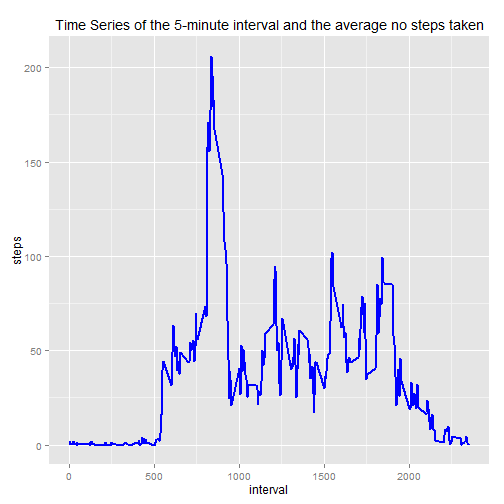
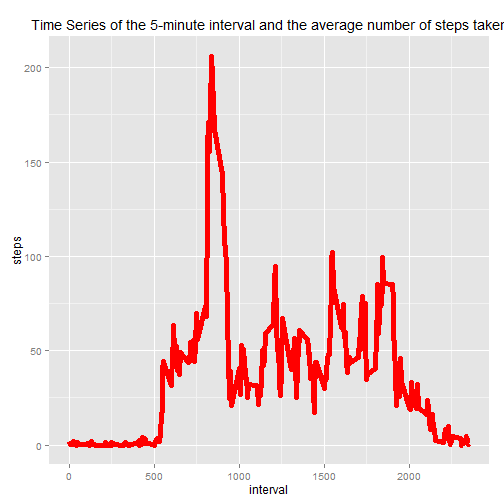
Assessment 1.

Changed region(s): [[0.119, 0.0893, 0.9524, 0.8929], [0.0595, 0.0298, 1.0, 0.0595]]

diff --git a/PA1_template.html b/PA1_template.html
@@ -217,7 +217,7 @@ df &lt;- read.csv(&quot;activity.csv&quot;)
 
 <h2>1.1 Process input data</h2>
 
-<p>Process date column and print the first few records and a summary of the data set.</p>
+<p>Process date column and print the first few records.</p>
 
 <pre><code class="r">df$date &lt;- as.Date(df$date, &quot;%Y-%m-%d&quot;)
 head(df)
@@ -232,19 +232,6 @@ head(df)
 ## 6    NA 2012-10-01       25
 </code></pre>
 
-<pre><code class="r">summary(df)
-</code></pre>
-
-<pre><code>##      steps             date               interval     
-##  Min.   :  0.00   Min.   :2012-10-01   Min.   :   0.0  
-##  1st Qu.:  0.00   1st Qu.:2012-10-16   1st Qu.: 588.8  
-##  Median :  0.00   Median :2012-10-31   Median :1177.5  
-##  Mean   : 37.38   Mean   :2012-10-31   Mean   :1177.5  
-##  3rd Qu.: 12.00   3rd Qu.:2012-11-15   3rd Qu.:1766.2  
-##  Max.   :806.00   Max.   :2012-11-30   Max.   :2355.0  
-##  NA&#39;s   :2304
-</code></pre>
-
 <h1>2. What is mean total number of steps taken per day?</h1>
 
 <h2>2.1 Calculate the total number of steps taken per day</h2>
@@ -252,8 +239,8 @@ head(df)
 <p>Calculate and display summary of the total number of steps taken per day ignoring missing values.</p>
 
 <pre><code class="r">df.steps &lt;- tapply(df$steps, df$date, Fun=sum, na.rm=True)
-by_day &lt;- aggregate(steps ~ date, data = df, sum)
-summary(by_day)
+stepsByDay &lt;- aggregate(steps ~ date, data = df, sum)
+summary(stepsByDay)
 </code></pre>
 
 <pre><code>##       date                steps      
@@ -269,7 +256,7 @@ summary(by_day)
 
 <p>Plot a histogram with the total number of steps taken each day.</p>
 
-<pre><code class="r">ggplot(by_day, aes(steps)) + geom_histogram(fill = &quot;green&quot;, colour = &quot;blue&quot;, 
+<pre><code class="r">ggplot(stepsByDay, aes(steps)) + geom_histogram(fill = &quot;green&quot;, colour = &quot;blue&quot;, 
     breaks = c(0, 2500, 5000, 7500, 10000, 12500, 15000, 17500, 20000, 22500, 25000)) + labs(y = expression(&quot;Frequency&quot;)) + 
     labs(x = expression(&quot;number of steps per day&quot;)) + labs(title = expression(&quot;Histogram - Total number of steps taken each day&quot;))
 </code></pre>
@@ -280,7 +267,7 @@ summary(by_day)
 
 <p>Calculate and report the mean.  </p>
 
-<pre><code class="r">meanSteps&lt;-mean(by_day$steps)
+<pre><code class="r">meanSteps&lt;-mean(stepsByDay$steps)
 meanSteps
 </code></pre>
 
@@ -289,7 +276,7 @@ meanSteps
 
 <p>Calculate and report the median.</p>
 
-<pre><code class="r">medianSteps&lt;-median(by_day$steps)
+<pre><code class="r">medianSteps&lt;-median(stepsByDay$steps)
 medianSteps
 </code></pre>
 
@@ -303,29 +290,29 @@ medianSteps
 <p>Make a time series plot (i.e. type = &ldquo;l&rdquo;) of the 5-minute interval (x-axis) and the average number of steps taken, averaged across all days (y-axis).</p>
 
 <pre><code class="r"># calculate the average number of steps per interval
-avg_interval &lt;- aggregate(steps ~ interval, data = df, FUN = function(x) {
+avgPerInterval &lt;- aggregate(steps ~ interval, data = df, FUN = function(x) {
     mean(x, na.rm = TRUE)
 })
 
-ggplot(avg_interval, aes(interval, steps)) + geom_line(colour = &quot;blue&quot;, 
-    lwd = 1) + labs(title = expression(&quot;Time Series of the 5-minute interval and the average no steps taken&quot;))
+ggplot(avgPerInterval, aes(interval, steps)) + geom_line(colour = &quot;red&quot;, 
+    lwd = 2) + labs(title = expression(&quot;Time Series of the 5-minute interval and the average number of steps taken&quot;))
 </code></pre>
 
[2 lines of base64/hex data omitted]
 
 <h2>3.2 Which 5-minute interval, on average across all the days in the dataset, contains the maximum number of steps?</h2>
 
 <p>Find and report the interval with the maximum number of steps.</p>
 
 <pre><code class="r">#find interval
-by_interval$interval[which.max(by_interval$steps)]
+avgPerInterval$interval[which.max(avgPerInterval$steps)]
 </code></pre>
 
 <pre><code>## [1] 835
 </code></pre>
 
 <pre><code class="r"># max. number of steps
-max(by_interval$steps)
+max(avgPerInterval$steps)
 </code></pre>
 
 <pre><code>## [1] 206.1698
@@ -365,11 +352,11 @@ head(totalStepsPerDay)
 <pre><code class="r">for (i in 1:length(df$steps)) {
     if (is.na(df[i, 1])) {
 
-        ## corresponding 5 minute interval
-        steps_average &lt;- subset(by_interval, by_interval$interval == as.numeric(df[i,3]))$steps
+        ## 5 minute interval
+        stepsAverage &lt;- subset(avgPerInterval, avgPerInterval$interval == as.numeric(df[i,3]))$steps
 
         ## Replace the missing value
-        df[i, 1] &lt;- steps_average
+        df[i, 1] &lt;- stepsAverage
     } else {
         df[i, 1] &lt;- df[i, 1]
     }
@@ -397,9 +384,9 @@ head(totalStepsPerDay)
 
 <p>Make a histogram of the total number of steps taken each day after imputation.</p>
 
-<pre><code class="r">by_date &lt;- aggregate(steps ~ date, data = df, sum)
+<pre><code class="r">byDate &lt;- aggregate(steps ~ date, data = df, sum)
 
-ggplot(by_date, aes(steps)) + geom_histogram(fill = &quot;blue&quot;, colour = &quot;green&quot;, 
+ggplot(byDate, aes(steps)) + geom_histogram(fill = &quot;blue&quot;, colour = &quot;green&quot;, 
     breaks = c(0, 2500, 5000, 7500, 10000, 12500, 15000, 17500, 20000, 22500, 25000)) + labs(y = expression(&quot;Frequency&quot;)) + 
     labs(x = expression(&quot;Number of steps per day&quot;)) + labs(title = expression(&quot;Histogram of dataset after imputation&quot;))
 </code></pre>
@@ -410,14 +397,14 @@ ggplot(by_date, aes(steps)) + geom_histogram(fill = &quot;blue&quot;, colour = &
 
 <p>Mean and Median of the new dataset are:</p>
 
-<pre><code class="r">meanNew&lt;-mean(by_date$steps)
+<pre><code class="r">meanNew&lt;-mean(byDate$steps)
 meanNew
 </code></pre>
 
 <pre><code>## [1] 10766.19
 </code></pre>
 
-<pre><code class="r">medianNew&lt;-median(by_date$steps)
+<pre><code class="r">medianNew&lt;-median(byDate$steps)
 medianNew
 </code></pre>
 

diff --git a/PA1_template.md b/PA1_template.md
@@ -23,7 +23,7 @@ df <- read.csv("activity.csv")
 
 ## 1.1 Process input data
 
-Process date column and print the first few records and a summary of the data set.
+Process date column and print the first few records.
 
 ```r
 df$date <- as.Date(df$date, "%Y-%m-%d")
@@ -40,21 +40,6 @@ head(df)
 ## 6    NA 2012-10-01       25
 ```
 
-```r
-summary(df)
-```
-
-```
-##      steps             date               interval     
-##  Min.   :  0.00   Min.   :2012-10-01   Min.   :   0.0  
-##  1st Qu.:  0.00   1st Qu.:2012-10-16   1st Qu.: 588.8  
-##  Median :  0.00   Median :2012-10-31   Median :1177.5  
-##  Mean   : 37.38   Mean   :2012-10-31   Mean   :1177.5  
-##  3rd Qu.: 12.00   3rd Qu.:2012-11-15   3rd Qu.:1766.2  
-##  Max.   :806.00   Max.   :2012-11-30   Max.   :2355.0  
-##  NA's   :2304
-```
-
 # 2. What is mean total number of steps taken per day?
 
 ## 2.1 Calculate the total number of steps taken per day
@@ -63,8 +48,8 @@ Calculate and display summary of the total number of steps taken per day ignorin
 
 ```r
 df.steps <- tapply(df$steps, df$date, Fun=sum, na.rm=True)
-by_day <- aggregate(steps ~ date, data = df, sum)
-summary(by_day)
+stepsByDay <- aggregate(steps ~ date, data = df, sum)
+summary(stepsByDay)
 ```
 
 ```
@@ -82,7 +67,7 @@ summary(by_day)
 Plot a histogram with the total number of steps taken each day.
 
 ```r
-ggplot(by_day, aes(steps)) + geom_histogram(fill = "green", colour = "blue", 
+ggplot(stepsByDay, aes(steps)) + geom_histogram(fill = "green", colour = "blue", 
     breaks = c(0, 2500, 5000, 7500, 10000, 12500, 15000, 17500, 20000, 22500, 25000)) + labs(y = expression("Frequency")) + 
     labs(x = expression("number of steps per day")) + labs(title = expression("Histogram - Total number of steps taken each day"))
 ```
@@ -94,7 +79,7 @@ ggplot(by_day, aes(steps)) + geom_histogram(fill = "green", colour = "blue",
 Calculate and report the mean.  
 
 ```r
-meanSteps<-mean(by_day$steps)
+meanSteps<-mean(stepsByDay$steps)
 meanSteps
 ```
 
@@ -104,7 +89,7 @@ meanSteps
 Calculate and report the median.
 
 ```r
-medianSteps<-median(by_day$steps)
+medianSteps<-median(stepsByDay$steps)
 medianSteps
 ```
 
@@ -120,12 +105,12 @@ Make a time series plot (i.e. type = "l") of the 5-minute interval (x-axis) and 
 
 ```r
 # calculate the average number of steps per interval
-avg_interval <- aggregate(steps ~ interval, data = df, FUN = function(x) {
+avgPerInterval <- aggregate(steps ~ interval, data = df, FUN = function(x) {
     mean(x, na.rm = TRUE)
 })
 
-ggplot(avg_interval, aes(interval, steps)) + geom_line(colour = "blue", 
-    lwd = 1) + labs(title = expression("Time Series of the 5-minute interval and the average no steps taken"))
+ggplot(avgPerInterval, aes(interval, steps)) + geom_line(colour = "red", 
+    lwd = 2) + labs(title = expression("Time Series of the 5-minute interval and the average number of steps taken"))
 ```
 
 ![plot of chunk unnamed-chunk-7](figure/unnamed-chunk-7-1.png) 
@@ -136,7 +121,7 @@ Find and report the interval with the maximum number of steps.
 
 ```r
 #find interval
-by_interval$interval[which.max(by_interval$steps)]
+avgPerInterval$interval[which.max(avgPerInterval$steps)]
 ```
 
 ```
@@ -145,7 +130,7 @@ by_interval$interval[which.max(by_interval$steps)]
 
 ```r
 # max. number of steps
-max(by_interval$steps)
+max(avgPerInterval$steps)
 ```
 
 ```
@@ -192,11 +177,11 @@ head(totalStepsPerDay)
 for (i in 1:length(df$steps)) {
     if (is.na(df[i, 1])) {
         
-        ## corresponding 5 minute interval
-        steps_average <- subset(by_interval, by_interval$interval == as.numeric(df[i,3]))$steps
+        ## 5 minute interval
+        stepsAverage <- subset(avgPerInterval, avgPerInterval$interval == as.numeric(df[i,3]))$steps
         
         ## Replace the missing value
-        df[i, 1] <- steps_average
+        df[i, 1] <- stepsAverage
     } else {
         df[i, 1] <- df[i, 1]
     }
@@ -229,9 +214,9 @@ Make a histogram of the total number of steps taken each day after imputation.
 
 
 ```r
-by_date <- aggregate(steps ~ date, data = df, sum)
+byDate <- aggregate(steps ~ date, data = df, sum)
 
-ggplot(by_date, aes(steps)) + geom_histogram(fill = "blue", colour = "green", 
+ggplot(byDate, aes(steps)) + geom_histogram(fill = "blue", colour = "green", 
     breaks = c(0, 2500, 5000, 7500, 10000, 12500, 15000, 17500, 20000, 22500, 25000)) + labs(y = expression("Frequency")) + 
     labs(x = expression("Number of steps per day")) + labs(title = expression("Histogram of dataset after imputation"))
 ```
@@ -243,7 +228,7 @@ Calculate and report the mean and median total number of steps taken per day.
 Mean and Median of the new dataset are:
 
 ```r
-meanNew<-mean(by_date$steps)
+meanNew<-mean(byDate$steps)
 meanNew
 ```
 
@@ -252,7 +237,7 @@ meanNew
 ```
 
 ```r
-medianNew<-median(by_date$steps)
+medianNew<-median(byDate$steps)
 medianNew
 ```
 
